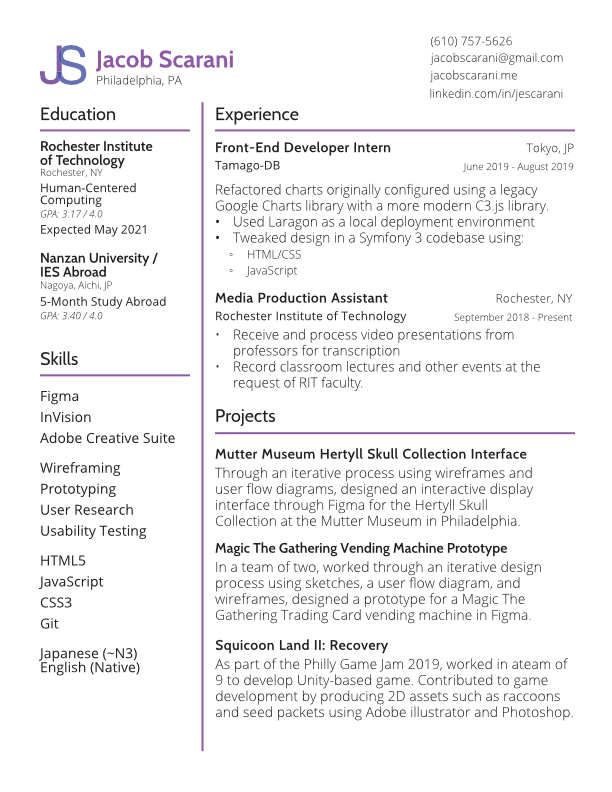
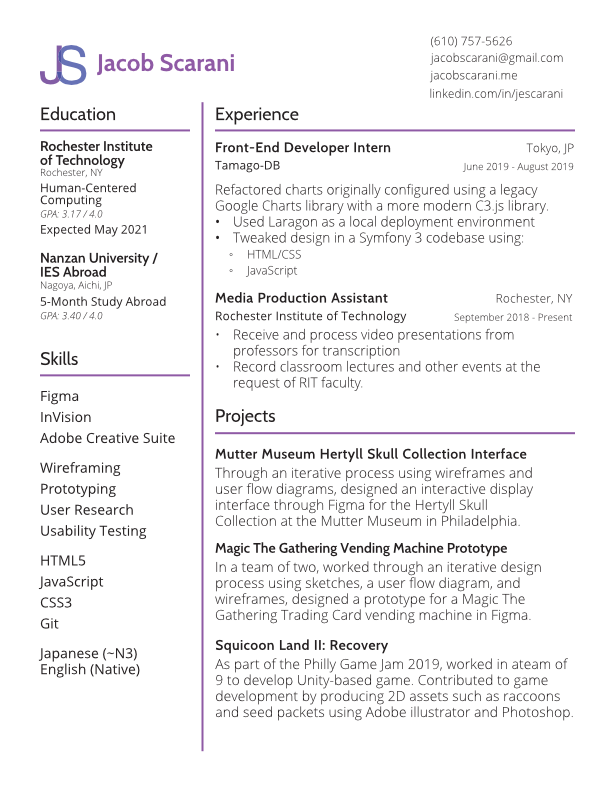
resume + portfolio preview update
removed city, state from resume and replace preview image for alltrails reskin with app logo to relieve text clutter

Changed region(s): [[0.1552, 0.0606, 0.4036, 0.1212], [0.0621, 0.8182, 0.2173, 0.8788]]

diff --git a/index.html b/index.html
@@ -131,7 +131,7 @@
                             <i class="fa fa-search-plus fa-3x"></i>
                         </div>
                     </div>
-                    <img src="img/portfolio/AllTrails_reskin_sm.png" class="img-responsive">
+                    <img src="img/portfolio/alltrails.png" class="img-responsive">
                 </a>
             </div>
 
